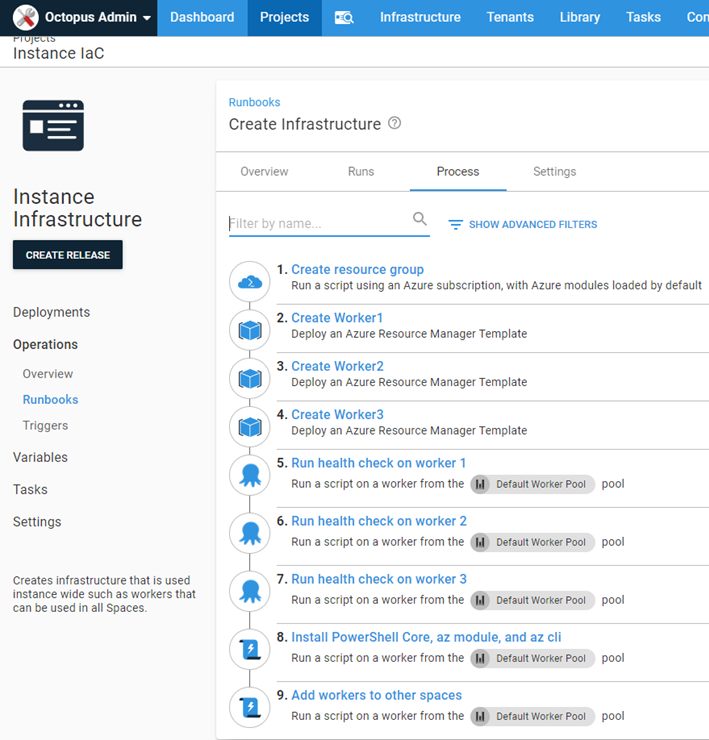
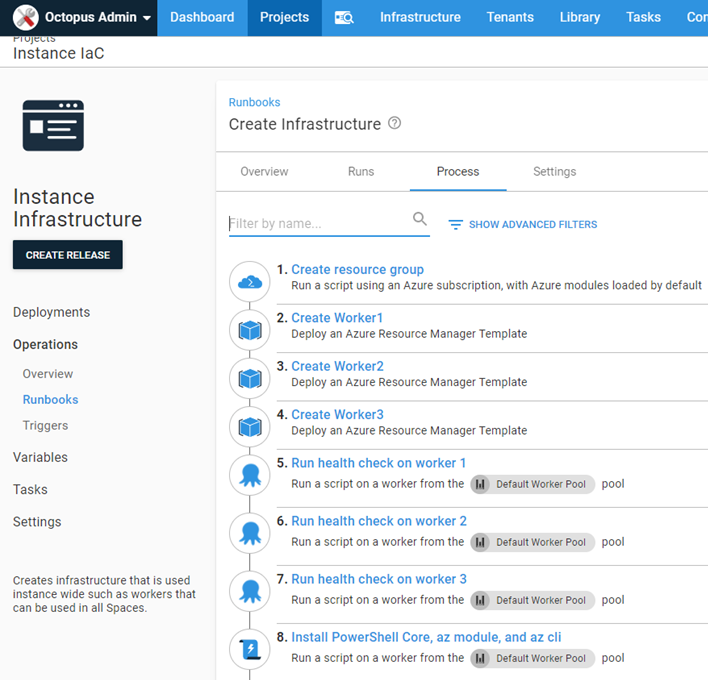
First draft revised

Changed region(s): [[0.3107, 0.1235, 1.0, 1.0], [0.0, 0.1235, 0.2797, 0.9265], [0.0, 0.0, 1.0, 0.0926]]

diff --git a/blog/2021-01/workers-as-containers/index.md b/blog/2021-01/workers-as-containers/index.md
@@ -10,10 +10,7 @@ tags:
  - 
 ---
 
-I recently had the need to create some additional, temporary workers on our [Samples](https://samples.octopus.app) cloud instance of Octopus Deploy that could be shared with other spaces.  As these workers were to be short lived, containers seemed like the perfect solution!  Spin up, do some work, tear them down.  Beautiful!  In this post, I'll demonstrate how to create workers in a container hosted in Azure, perform a health check, and install some additional software components.  Once we're done with the workers, tear them down and deregister from Octopus.
-
-## The problem
-The goal of this project was to provide additional workers to our Samples instance during the time when all of the Spaces were spinning up their respective infrastructure.  When the workers were no longer needed, tear them down.
+I recently had the need to create some additional, temporary workers on our [Samples](https://samples.octopus.app) cloud instance of Octopus Deploy.  As these workers were to be short lived, containers seemed like the perfect solution!  Spin up, do some work, tear them down.  Beautiful!  In this post, I'll demonstrate how to create workers in a container hosted in Azure, perform a health check, and install some additional software components.  
 
 ## Spin up the workers
 The first step we'll need to do is to create a Runbook.  This post assumes that you have some familiarity with the [Runbook](https://octopus.com/docs/runbooks) feature, so I'll not be going into great detail in creating one.  My Runbook consists of the following steps:
@@ -21,10 +18,9 @@ The first step we'll need to do is to create a Runbook.  This post assumes that 
 - Run an ARM template to create the Octopus Deploy Tentacle container
 - Run a health check
 - Install additional software
-- Register to any Space with a Setup worker pool
 
 ### Create Azure Resource Group
-For ease of removal, the first step creates an Azure Resource Group using the Run an Azure Script step:
+For ease of removal and overall tidyness, the first step creates an Azure Resource Group using the Run an Azure Script step:
 
 ```PowerShell
 $resourceGroupName = $OctopusParameters["Azure.Network.ResourceGroup.Name"]
@@ -152,10 +148,10 @@ The template requires some parameters to be entered:
 
 This template will spin up an Azure Container Instance of the Octopus Deploy Tentacle.  
 
-For speed, I chose the Linux variant as it is much smaller than the Windows container (254.39 MB versus 2.27 GB).
+I chose the Linux variant as it is much smaller than the Windows container (254.39 MB versus 2.27 GB).
 
 ### Run a health check
-The built-in health check template only works for deployment targets, however, there is a Community step that was developed specifically for workers; [Worker - Health Check](https://library.octopus.com/step-templates/c6c23c7b-876d-4758-a908-511f066156d7/actiontemplate-worker-health-check).
+The built-in health check template only works for deployment targets, however, there is a Community step that was developed specifically for workers; [Worker - Health Check](https://library.octopus.com/step-templates/c6c23c7b-876d-4758-a908-511f066156d7/actiontemplate-worker-health-check).  Running this step ensures that our worker is healthy and ready for the next step.
 
 ### Install addtional software
 The workers were going to need to interact with both Azure and AWS.  The Tentacle image has the bare minimum software required to run, so I needed to install the following:
@@ -163,7 +159,7 @@ The workers were going to need to interact with both Azure and AWS.  The Tentacl
 - Azure CLI
 - AWS CLI
 
-With Deployment Targets, you can execute steps against all targets with the same role.  Since workers don't have roles, I needed to find an alternative.  I found the Script Console had the ability to execute the same code against all workers within a pool.  With Octopus written API-first, I was able to duplicate the functionality of the Script Console to run the code to install the additional software against the whole pool!
+With Deployment Targets, you can execute steps against all targets with the same role.  Since workers don't have roles, I needed to find an alternative.  I found the Script Console had the ability to execute the same code against all workers within a pool.  With Octopus written API-first, I was able to duplicate the functionality of the Script Console to run the code to install the additional software against the whole pool via the API!
 
 ```PowerShell
 # Define parameters
@@ -240,79 +236,14 @@ while ($scriptTask.IsCompleted -eq $false)
 
 Write-Output "Installation complete!"
 ```
-
-### Add to other spaces
-This step iterates through all of the spaces on the instance and adds the workers to the space if it has a worker pool called Setup
-
-```PowerShell
-# Define parameters
-$baseUrl = $OctopusParameters['Global.Base.Url'] 
-$apiKey = $OctopusParameters['Global.Api.Key'] 
-$spaceId = $OctopusParameters['Octopus.Space.Id']
-$spaceName = $OctopusParameters['Octopus.Space.Name']
-$workerPoolName = $OctopusParameters['Project.WorkerPool.Name']
-
-if ($baseUrl.EndsWith("/"))
-{
-	$baseUrl = $baseUrl.SubString(0, $baseUrl.LastIndexOf("/"))
-}
-
-# Get worker pool
-$workerPool = ((Invoke-RestMethod -Method Get -Uri "$baseUrl/api/$spaceId/workerpools/all" -Headers @{"X-Octopus-ApiKey"="$apiKey"}) | Where-Object {$_.Name -eq $workerPoolName})
-
-# Get all workers
-$workers = (Invoke-RestMethod -Method Get -Uri "$baseUrl/api/$spaceId/workerpools/$($workerPool.Id)/workers" -Headers @{"X-Octopus-ApiKey"="$apiKey"})
-
-# Get all spaces
-$spaces = ((Invoke-RestMethod -Method Get -Uri "$baseUrl/api/spaces/all" -Headers @{"X-Octopus-ApiKey"="$apiKey"}) | Where-Object {$_.Name -ne $spaceName})
-
-# Loop through all spaces
-foreach ($space in $spaces)
-{
-	# Get worker pool
-    $workerPool = ((Invoke-RestMethod -Method Get -Uri "$baseUrl/api/$($space.Id)/workerpools/all" -Headers @{"X-Octopus-ApiKey"="$apiKey"}) | Where-Object {$_.Name -eq $workerPoolName})
-    
-    # Check worker pool
-    if ($null -ne $workerPool)
-    {
-    	# Get default machine policy
-        $machinePolicy = ((Invoke-RestMethod -Method Get -Uri "$baseUrl/api/$($space.Id)/machinepolicies/all" -Headers @{"X-Octopus-ApiKey"="$apiKey"}) | Where-Object {$_.Name -eq "Default Machine Policy"})
-        
-        # Loop through workers
-        foreach ($worker in $workers.Items)
-        {
-        	# Build JSON payload
-            $jsonPayload = @{
-                Name = $worker.Name
-                MachinePolicyId = $machinePolicy.Id
-                IsDisabled = $worker.IsDisabled
-                HealthStatus = $worker.HealthStatus
-                HasLatestCalamari = $worker.HasLatestCalamari
-                IsInProcess = $true
-                EndPoint = $worker.Endpoint
-                WorkerPoolIds = @($workerPool.Id)
-            }
-            
-            # Add worker
-            Write-Output "Adding $($worker.Name) to $($space.Name)"
-            Invoke-RestMethod -Method Post -Uri "$baseUrl/api/$($space.Id)/workers" -Body ($jsonPayload | ConvertTo-Json -Depth 10) -Headers @{"X-Octopus-ApiKey"="$apiKey"}
-        }
-    }
-}
-```
-
 I needed to create more than just one worker, so steps 2 and 3 from above were created multiple times in my process
 
 ![](octopus-project-process.png)
 
 ## Containerized workers
-When configured in Listening mode, the Octopus Depoloy container is coded to automatically connect to your Octopus Server and register itself to the specified worker pool, which is Setup in this case
+When configured in Listening mode, the Tentacle container is coded to automatically connect to your Octopus Server and register itself to the specified worker pool.  Once the runbook completed, I had three, healthy workers.
 
 ![](octopus-worker-pool.png)
 
-## Tear down workers
-As stated in the beginning of this post, these workers are meant to only stick around for a little while before being torn down.  I created another runbook to take care of the tear down process:
-- Remove workers from others spaces
-- Remove workers from this space
-- Delete resource group
-
+## Conclusion
+In this post I demonstrated how to create workers running as containers.  This gives you the flexibility of creating workers without having to manage a VM!
